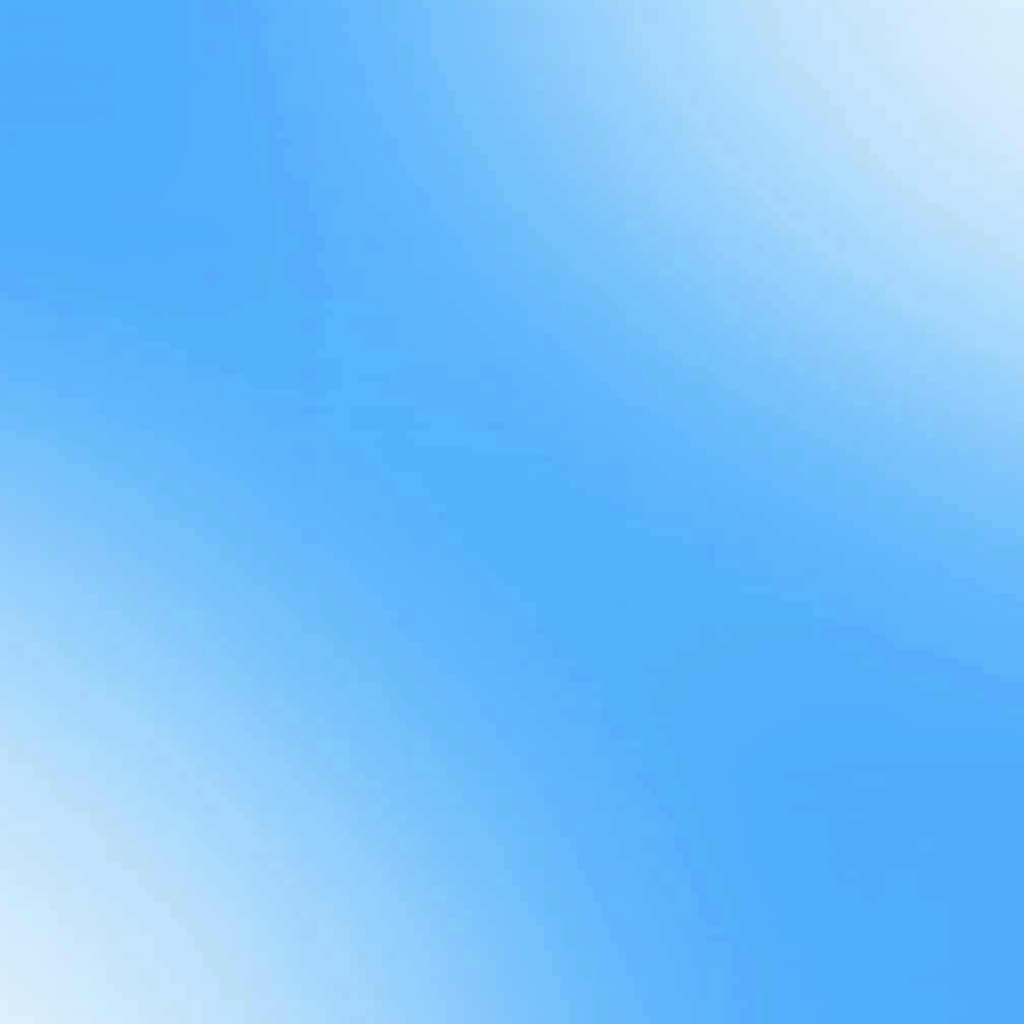
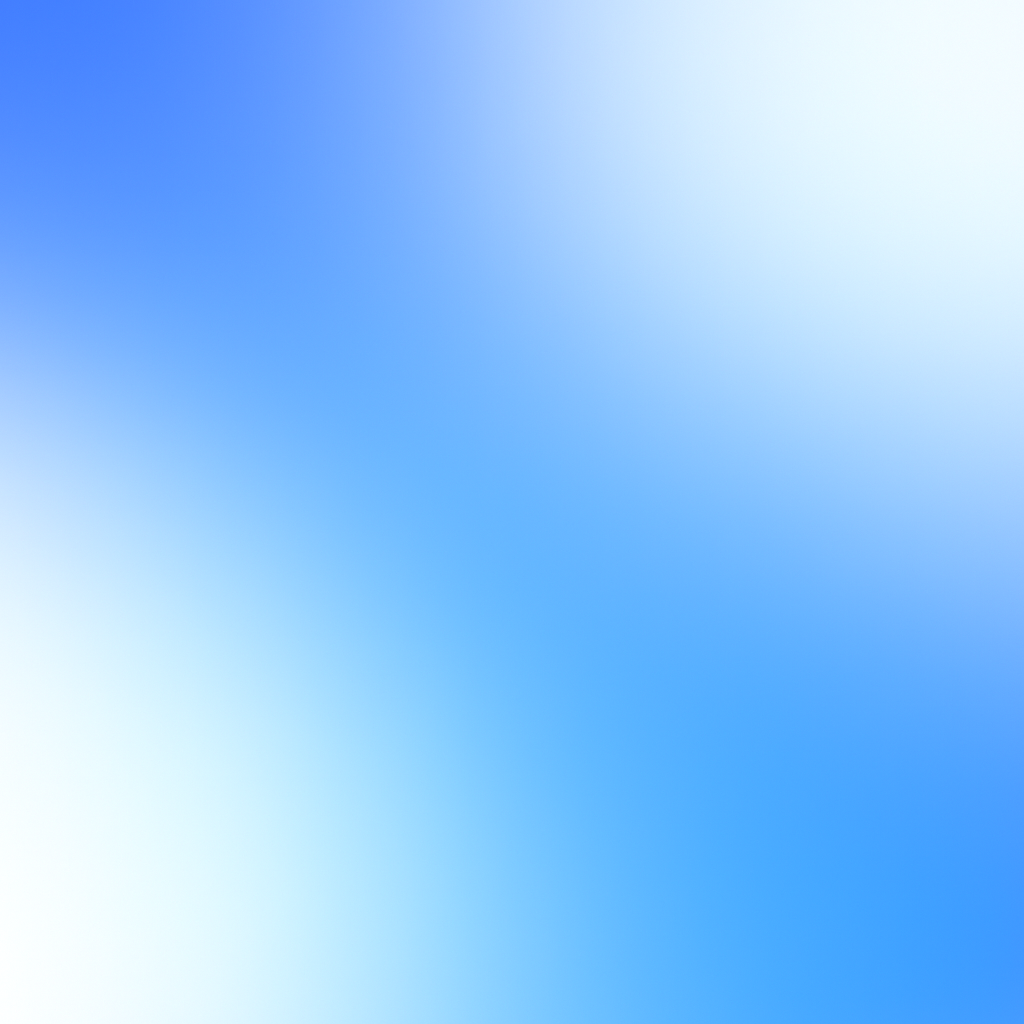
cambio de paleta de colores en el login para que combine con los modulos

diff --git a/src/assets/cssVista/inicioSesion.css b/src/assets/cssVista/inicioSesion.css
@@ -75,15 +75,15 @@ body::before {
 .logo-icon {
     width: 41px;
     height: 41px;
-    background: linear-gradient(135deg, #086eb2 0%, #1582ca 100%);
-    box-shadow: 140px -10px 55px rgba(8, 145, 178, 0.3);
+    background: linear-gradient(135deg, #387adf 0%, #1e60c3 100%);
+    box-shadow: 140px -10px 55px rgba(8, 101, 178, 0.5);
     transition: transform 0.3s ease, box-shadow 0.3s ease;
 }
 
 /* EFECTO: Hover del logo */
 .logo-icon:hover {
     transform: scale(1.1) rotate(5deg);
-    box-shadow: 0 5px 30px rgba(8, 145, 178, 0.5);
+    box-shadow: 0 5px 30px rgba(8, 82, 178, 0.5);
 }
 
 /* EFECTO: Animación de pulso continuo */
@@ -94,7 +94,7 @@ body::before {
         transition: transform 0.3s ease, box-shadow 0.3s ease;
     }
     50% {
-        background: linear-gradient(135deg, #086eb2 0%, #1388d6 100%);
+        background: linear-gradient(135deg, #387adf 0%, #1c5bb9 100%);
         transition: transform 0.3s ease, box-shadow 0.3s ease;
         transform: scale(1.05);
     }
@@ -106,7 +106,7 @@ body::before {
 
 /* Texto del nombre con gradiente */
 .clinic-name {
-    background: linear-gradient(135deg, #086eb2 0%, #014a7a 100%);
+    background: linear-gradient(135deg, #387adf 0%, #1e60c3 100%);
     -webkit-background-clip: text;
     -webkit-text-fill-color: transparent;
     background-clip: text;
@@ -158,22 +158,22 @@ body::before {
     border-width: 1.9px;
     border-radius: 16.7px !important;
     transition: border-color 0.3s ease, box-shadow 0.3s ease, transform 0.2s ease;
-    border-color: #1a8fdd !important;
+    border-color: #387adf  !important;
     background-color: #ffffff98;
-    box-shadow: 0 8px 10px rgba(8, 145, 178, 0.15) !important;
+    box-shadow: 0 8px 10px rgba(8, 101, 178, 0.15) !important;
 }
 
 /* EFECTO: Focus en inputs */
 .form-control:focus {
     background-color: #ffffffe5;
     border-width: 2px;
-    box-shadow: 0 0 0 0.2rem rgba(8, 145, 178, 0.15) !important;
+    box-shadow: 0 0 0 0.2rem rgba(8, 101, 178, 0.15) !important;
     transform: scale(1.01);
 }
 
 /* EFECTO: Icono cambia de color cuando hay focus */
 .input-icon-wrapper:focus-within .input-icon {
-    color: #086eb2 !important;
+    color: #387adf !important;
     transform: translateY(-50%) scale(1.1);
 }
 
@@ -188,7 +188,7 @@ body::before {
 
 .input-icon-wrapper:focus-within ~ .form-label,
 .form-control:focus ~ .form-label {
-    color: #086eb2 !important;
+    color: #387adf !important;
 }
 
 /* ============================================
@@ -204,8 +204,8 @@ body::before {
 }
 
 .password-toggle:hover {
-    color: #086eb2 !important;
-    filter: drop-shadow(0 0 5px rgba(8, 145, 178, 0.3));
+    color: #387adf !important;
+    filter: drop-shadow(0 0 5px rgba(8, 101, 178, 0.3));
     transform: translateY(-50%) scale(1.1);
 }
 
@@ -217,9 +217,9 @@ body::before {
            7. EFECTOS DEL BOTÓN (btn de Bootstrap)
            ============================================ */
 .btn-primary {
-    background: linear-gradient(135deg, #49b2f8 0%, #086eb2 100%) !important;
+    background: linear-gradient(135deg, #387adf 0%, #1c74f7 100%) !important;
     border: none !important;
-    box-shadow: 0 3px 12px rgba(8, 145, 178, 0.3);
+    box-shadow: 0 3px 12px rgba(8, 60, 178, 0.3);
     transition: transform 0.2s ease, box-shadow 0.3s ease, background 0.3s ease;
     position: relative;
     overflow: hidden;
@@ -232,13 +232,13 @@ body::before {
 /* EFECTO: Hover del botón */
 .btn-primary:hover {
     transform: translateY(-3px);
-    box-shadow: 0 6px 20px rgba(8, 145, 178, 0.5) !important;
+    box-shadow: 0 6px 20px rgba(8, 60, 178, 0.5) !important;
 }
 
 /* EFECTO: Click del botón */
 .btn-primary:active {
     transform: translateY(-1px) !important;
-    box-shadow: 0 2px 8px rgba(8, 145, 178, 0.3) !important;
+    box-shadow: 0 2px 8px rgba(8, 60, 178, 0.3) !important;
 }
 
 /* EFECTO: Onda al hacer click */
@@ -281,12 +281,12 @@ body::before {
            9. ENLACES DEL FOOTER
            ============================================ */
 .footer-links a {
-    color: #086eb2;
+    color: #2f75df;
     transition: color 0.3s ease;
 }
 
 .footer-links a:hover {
-    color: #3589c2;
+    color: #0066ff;
 }
 
 /* ============================================
@@ -311,13 +311,9 @@ body::before {
            11. COLORES PERSONALIZADOS DE BOOTSTRAP
            ============================================ */
 .text-primary-custom {
-    color: #2c7db3 !important;
+    color: #387adf !important;
 }
 
 .text-secondary-custom {
     color: #64748b !important;
-}
-
-.border-primary-custom {
-    border-color: #2c7db3 !important;
 }
